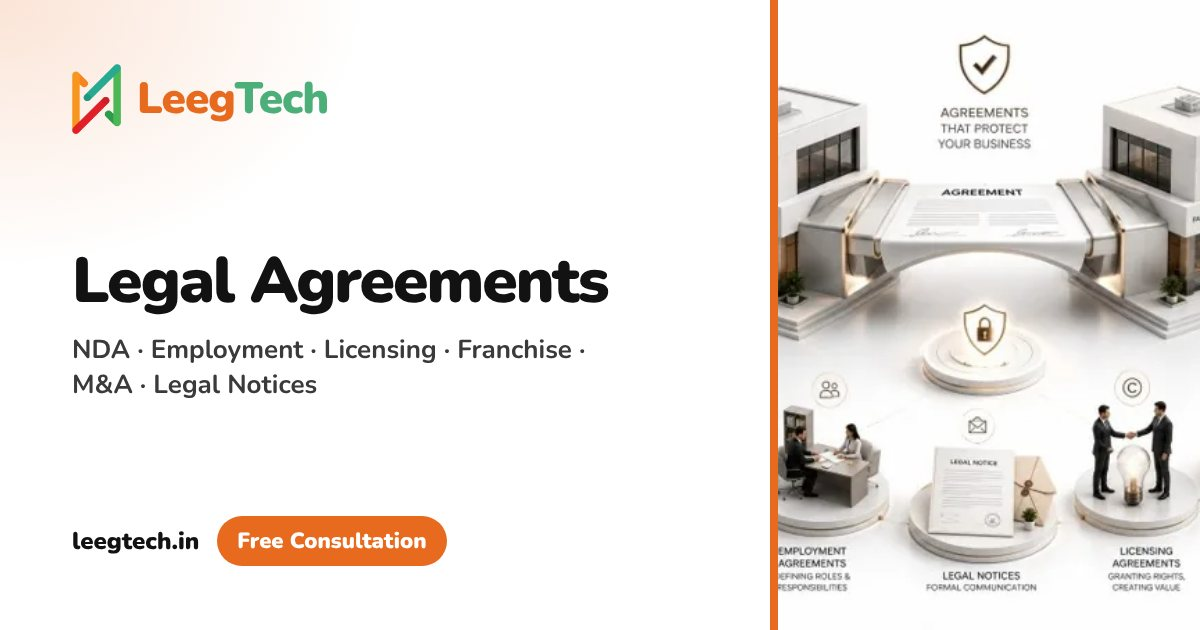
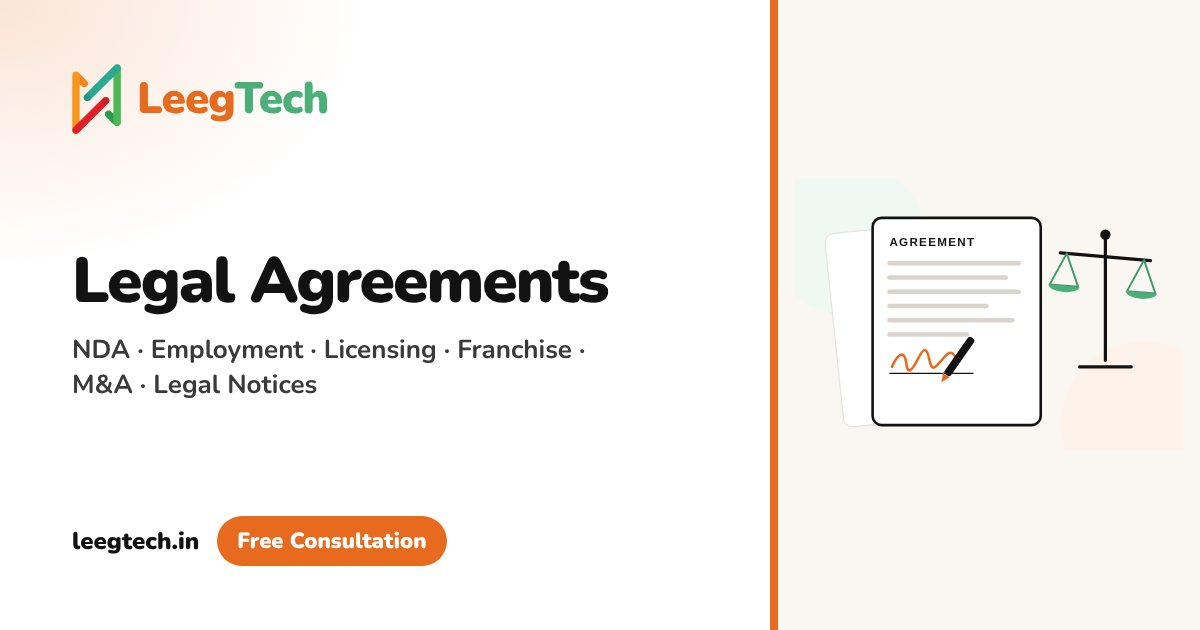
Add animated service graphics, SEO FAQs, disclaimer page and Mon-Fri hours
- Hand-built animated SVG illustrations per practice area (~3 KB each) and per-service icons
- 43 search-style FAQs with anchors, links and FAQPage schema
- Disclaimer page: no guarantee of outcome, no solicitation, no government affiliation
- Office hours Mon-Fri 10:00-18:30 in site and structured data
- Responsive tables, narrow-screen fixes, accessibility contrast fixes

Claude-Session: https://claude.ai/code/session_01UDVzC2ji2s8zNvPmLbED2n

diff --git a/src/assets/css/site.css b/src/assets/css/site.css
@@ -462,3 +462,26 @@ ul,ol{margin:0;padding:0}
 .field select{max-width:100%;text-overflow:ellipsis}
 @media (max-width:1180px){.hdr-actions{margin-left:auto}}
 @media (max-width:620px){.compact .field:not(:has([required])){display:none}}
+.faq-a .faq-more{margin-top:8px}.faq-more a{font-weight:800;text-decoration:none;display:inline-flex;gap:.3em;align-items:center}
+.faq-toc{display:flex;flex-wrap:wrap;gap:8px;margin:0 0 32px;list-style:none}.faq-toc a{display:inline-block;padding:8px 14px;border-radius:999px;border:1px solid var(--rule);text-decoration:none;font-weight:700;color:var(--ink);background:#fff}.faq-toc a:hover{border-color:var(--orange);color:var(--orange-d)}
+/* Graphics */
+.art{width:100%;height:auto;aspect-ratio:600/420}
+.ph-media .art{box-shadow:none;border-radius:0;max-height:none;object-fit:contain}
+.spot-media .art{box-shadow:none;background:none;aspect-ratio:600/420;object-fit:contain}
+.svc-art{float:right;width:min(320px,45%);margin:0 0 16px 28px}
+.svc-art img{width:100%;height:auto}
+@media (max-width:620px){.svc-art{float:none;width:100%;margin:0 0 16px}}
+.svc-top{display:flex;align-items:center;justify-content:space-between;gap:10px}
+.svc-ico{display:grid;place-items:center;width:44px;height:44px;border-radius:12px;background:var(--orange-l);color:var(--orange-d);transition:transform .2s}
+.svc-card.acc-green .svc-ico{background:var(--green-l);color:var(--green)}
+.svc-ico .ico{width:22px;height:22px}
+.svc-card:hover .svc-ico{transform:rotate(-6deg) scale(1.06)}
+.svc-card .svc-cat{align-self:center}
+.post-layout>*,.svc-layout>*{min-width:0}
+@media (max-width:1000px){.post-layout{grid-template-columns:minmax(0,1fr)}}
+@media (max-width:1060px){.svc-layout{grid-template-columns:minmax(0,1fr)}}
+h1,h2,h3,.crumbs li{overflow-wrap:break-word;hyphens:auto}
+@media (max-width:620px){.table-wrap{border:0;overflow:visible}.prose table{min-width:0}.prose thead{display:none}.prose tr{display:block;border:1px solid var(--rule);border-radius:12px;margin-bottom:12px;overflow:hidden}.prose td{display:grid;grid-template-columns:42% 1fr;gap:10px;border-bottom:1px solid var(--rule)}.prose td::before{content:attr(data-label);font-weight:800;color:var(--ink)}.prose td:first-child{background:var(--soft)}}
+@media (max-width:900px){.ph-media .art{max-width:420px;margin:0 auto}}
+@media (max-width:380px){.mobile-bar a{font-size:.84rem;gap:4px;padding:11px 4px}.mobile-bar .ico{width:1em;height:1em}}
+.ft-disclaimer a{text-decoration:underline;color:#fff}
